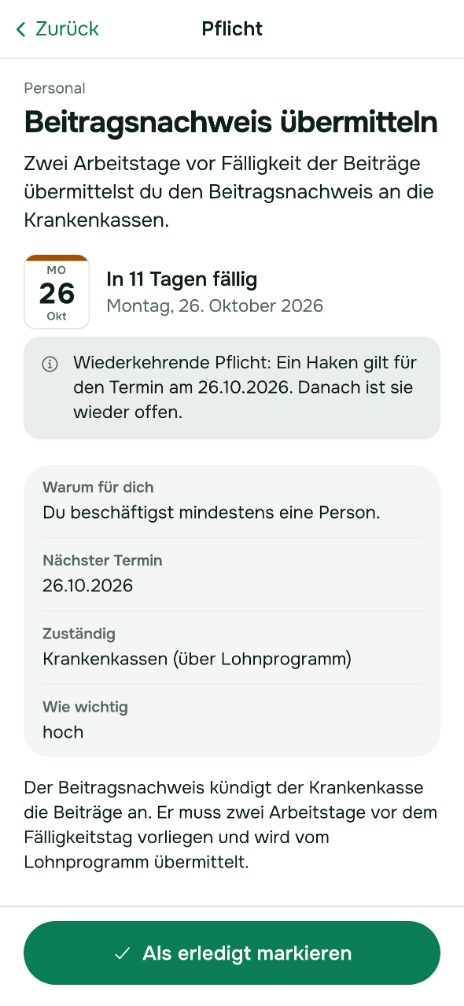
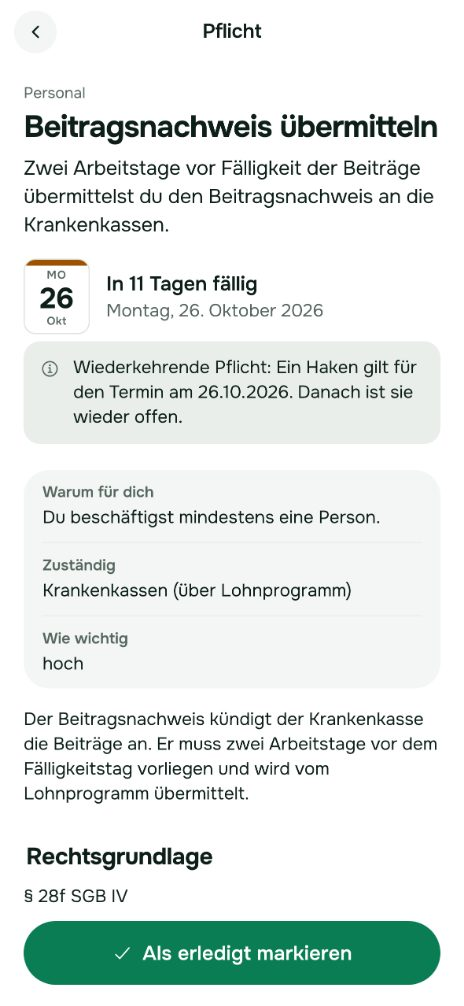
E-139 (3): Pflicht ohne doppeltes Datum, Beträge mit proportionalen Ziffern, Website-Bilder neu
Claude-Session: https://claude.ai/code/session_01WbXnSzce2P68GngQY2h6hr

diff --git a/apps/mobile/src/ui/bausteine.tsx b/apps/mobile/src/ui/bausteine.tsx
@@ -34,7 +34,7 @@ export function T({ v = "basis", fett, leise, farbe, stil, children, ...rest }: 
 /** Beträge und Ziffern: fett, gleich breite Ziffern – Spalten stehen untereinander. */
 export function Betrag({ children, v = "basis", farbe, stil }: { children: ReactNode; v?: Variante; farbe?: string; stil?: StyleProp<TextStyle> }) {
   return (
-    <T v={v} farbe={farbe} stil={[{ fontFamily: SCHRIFT.bold, fontVariant: ["tabular-nums"] }, stil]}>
+    <T v={v} farbe={farbe} stil={[{ fontFamily: SCHRIFT.bold }, stil]}>
       {children}
     </T>
   );
@@ -130,7 +130,7 @@ export function Fristblatt({ termin, heute, erledigt, groesse = 46 }: { termin: 
     <View accessibilityElementsHidden importantForAccessibility="no-hide-descendants" aria-hidden style={[{ width: groesse, borderRadius: 10, backgroundColor: f.papier, borderWidth: 1, borderColor: f.linie, overflow: "hidden", alignItems: "center" }, schattenStil(f, 0.6)]}>
       <View style={{ alignSelf: "stretch", height: 5, backgroundColor: streifen }} />
       <T v="mini" leise stil={{ marginTop: 3, fontSize: 9.5, lineHeight: 11, textTransform: "uppercase", letterSpacing: 0.6 }}>{fmt({ weekday: "short" })}</T>
-      <T v="gross" stil={{ fontSize: groesse * 0.44, lineHeight: groesse * 0.5, fontVariant: ["tabular-nums"] }}>{fmt({ day: "numeric" })}</T>
+      <T v="gross" stil={{ fontSize: groesse * 0.44, lineHeight: groesse * 0.5 }}>{fmt({ day: "numeric" })}</T>
       <T v="mini" leise stil={{ marginBottom: 4, fontSize: 9.5, lineHeight: 11, letterSpacing: 0.3 }}>{fmt({ month: "short" })}</T>
     </View>
   );
@@ -520,7 +520,7 @@ export function DatumFeld({ label, wert, aendern, hilfe, ohneHeute, ohneLabel }:
           selectionColor={f.amt}
           keyboardType="numbers-and-punctuation"
           inputAccessoryViewID={TASTATUR_FERTIG}
-          style={[feldRahmen(f, { fokus, fehler: falsch }), feldText(f), { flex: 1, minWidth: 0, fontVariant: ["tabular-nums"] }]}
+          style={[feldRahmen(f, { fokus, fehler: falsch }), feldText(f), { flex: 1, minWidth: 0 }]}
         />
         {ohneHeute ? null : (
           <Pressable accessibilityRole="button" accessibilityLabel={`${label}: ${heuteText}`} onPress={() => aendern(heute)} style={({ pressed }) => ({ minHeight: 50, paddingHorizontal: 15, borderRadius: RADIUS.klein, justifyContent: "center", backgroundColor: f.amtHauch, opacity: pressed ? 0.7 : 1 })}>

diff --git a/apps/mobile/src/seiten/Liste.tsx b/apps/mobile/src/seiten/Liste.tsx
@@ -208,7 +208,7 @@ export function ListenSchritt({ feld, id }: { feld: ListenFeld; id: string }) {
             return (
               <Pressable key={i} accessibilityRole="button" accessibilityLabel={`${feld.eintrag} ${i + 1}: ${anzeigeTitel(feld, e, i)}`} onPress={() => oeffnen(i)} style={({ pressed }) => ({ flexDirection: "row", alignItems: "center", gap: 14, minHeight: ZIEL + 12, paddingVertical: 12, borderTopWidth: i ? HAARLINIE : 0, borderColor: f.linie, opacity: pressed ? 0.6 : 1 })}>
                 <View style={{ width: 28, height: 28, borderRadius: 14, backgroundColor: fehlt.length ? f.baldHauch : f.amtHauch, alignItems: "center", justifyContent: "center" }}>
-                  <T v="caption" fett farbe={fehlt.length ? f.bald : f.amt} stil={{ fontVariant: ["tabular-nums"] }}>{i + 1}</T>
+                  <T v="caption" fett farbe={fehlt.length ? f.bald : f.amt} stil={{}}>{i + 1}</T>
                 </View>
                 <View style={{ flex: 1 }}>
                   <T fett={benutzt(feld, e)} leise={!benutzt(feld, e)} numberOfLines={2}>{anzeigeTitel(feld, e, i)}</T>

diff --git a/apps/mobile/src/seiten/Pflichten.tsx b/apps/mobile/src/seiten/Pflichten.tsx
@@ -85,7 +85,8 @@ function PflichtDetail({ id }: { id: string }) {
         {p.wiederkehrend && p.naechsterTermin ? <Hinweis text={TEXT.wiederkehrend_hinweis(datumDe(p.naechsterTermin))} /> : null}
         <Karte stil={{ marginTop: 16, paddingTop: 0 }}>
           {p.grund ? zeile(TEXT.warum, p.grund) : null}
-          {p.naechsterTermin ? zeile(TEXT.naechster_termin("").trim(), datumDe(p.naechsterTermin)) : null}
+          {/* der Termin steht oben im Fristblatt – hier nur, wenn die Pflicht abgehakt ist */}
+          {p.naechsterTermin && abgehakt ? zeile(TEXT.naechster_termin("").trim(), datumDe(p.naechsterTermin)) : null}
           {p.stelle ? zeile(TEXT.zustaendig, p.stelle) : null}
           {zeile(TEXT.einstufung, TEXT.schwere[p.schwere])}
         </Karte>

diff --git a/apps/mobile/src/seiten/Abschluss.tsx b/apps/mobile/src/seiten/Abschluss.tsx
@@ -131,7 +131,7 @@ export function Abschluss({ id, springen, fehler, drucken: druckenLos, eRechnung
               {ergebnis.slice(0, -1).map(([k, w]) => (
                 <View key={k} style={{ flexDirection: "row", justifyContent: "space-between", gap: 12, paddingVertical: 5 }}>
                   <T v="klein" leise stil={{ flex: 1 }}>{k}</T>
-                  <T v="klein" stil={{ flexShrink: 1, textAlign: "right", fontVariant: ["tabular-nums"] }}>{w}</T>
+                  <T v="klein" stil={{ flexShrink: 1, textAlign: "right" }}>{w}</T>
                 </View>
               ))}
             </View>
